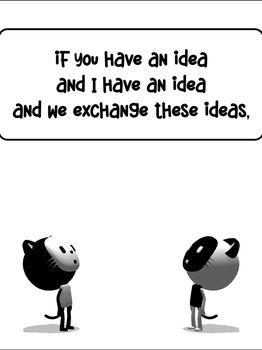
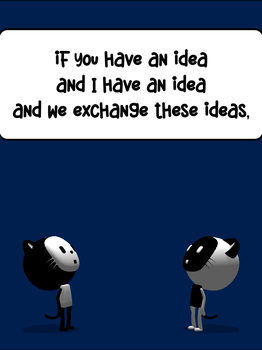
BD cases: coloured boxes, new targets
Apple_GLB2.jpg and Idea_GLB3.jpg now have a coloured background (ochre
#a77400, navy #001f4e): the box walls take that colour and the targets
are rebuilt from the new images, which tells the two cases apart.

Claude-Session: https://claude.ai/code/session_017rH57V7zFbv82sLvL6Yzpb

diff --git a/src/apple/bd-case.ts b/src/apple/bd-case.ts
@@ -10,8 +10,9 @@ declare const THREE: any
 
 const OCCLUDER_HALF = 6                // image widths; covers the page around the case
 const BORDER = 0.006                   // black line around the case, as on the print
-const BOX_COLOR = 0.4                   // lit part of the walls
-const BOX_EMISSIVE = 0.45              // walls stay near white, as in the C4D render
+// Walls in the background colour of the print: that share of it glows, the rest is lit, so the
+// walls read as the print's flat colour with a little shading and the characters' shadows.
+const BOX_GLOW = 0.6
 const SUN_INTENSITY = 0.55
 const SUN_POSITION = [0.1, 2, 0.4]     // target space, high above the box (C4D Light)
 const SUN_TARGET = [0, -0.5, -0.43]    // centre of the floor
@@ -94,7 +95,8 @@ const addFill = (world: ecs.World) => {
   world.three.notifyChanged(fill)
 }
 
-const setup = (world: ecs.World, eid: ecs.Eid, state: State, binUrl: string, label: string) => {
+const setup = (world: ecs.World, eid: ecs.Eid, state: State, binUrl: string, label: string,
+  boxColor: string) => {
   const stage = world.three.entityToObject.get(eid)
   if (!stage) {
     return
@@ -135,9 +137,10 @@ const setup = (world: ecs.World, eid: ecs.Eid, state: State, binUrl: string, lab
     const scene = createAppleScene(THREE, parseApple(buffer))
     for (const mesh of scene.meshes) {
       if (mesh.name === 'apple_box') {
+        const wall = new THREE.Color(boxColor)   // sRGB hex, as in the image
         mesh.material = new THREE.MeshLambertMaterial({
-          color: new THREE.Color().setScalar(BOX_COLOR),
-          emissive: new THREE.Color().setScalar(BOX_EMISSIVE),
+          color: wall.clone().multiplyScalar(1 - BOX_GLOW),
+          emissive: wall.clone().multiplyScalar(BOX_GLOW),
           side: THREE.DoubleSide,
         })
       } else if (mesh.name.startsWith('/Bulle1')) {
@@ -171,7 +174,7 @@ const fitShadow = (state: State) => {
 }
 
 // One component per case: `name` goes on the entity that carries the image target `target`.
-export const registerBdCase = (name: string, target: string, binUrl: string) => {
+export const registerBdCase = (name: string, target: string, binUrl: string, boxColor: string) => {
   const states = new Map<ecs.Eid, State>()
   ecs.registerComponent({
     name,
@@ -204,7 +207,7 @@ export const registerBdCase = (name: string, target: string, binUrl: string) => 
         return
       }
       if (!state.ready) {
-        setup(world, component.eid, state, binUrl, name)
+        setup(world, component.eid, state, binUrl, name, boxColor)
         if (!state.ready) {
           return
         }

diff --git a/src/apple/apple-extras.ts b/src/apple/apple-extras.ts
@@ -1,5 +1,5 @@
 import appleBinUrl from '../assets/apple/apple.bin'
 import {registerBdCase} from './bd-case'
 
-// Case 1 of the BD, baked from Apple_GLB3.c4d; target = References/Apple_GLB2.jpg.
-registerBdCase('Apple Extras', 'cible_apple', appleBinUrl)
+// Case 1 of the BD, baked from Apple_GLB3.c4d; target and wall colour = References/Apple_GLB2.jpg.
+registerBdCase('Apple Extras', 'cible_apple', appleBinUrl, '#a77400')

diff --git a/src/apple/idea-extras.ts b/src/apple/idea-extras.ts
@@ -1,5 +1,5 @@
 import ideaBinUrl from '../assets/idea/idea.bin'
 import {registerBdCase} from './bd-case'
 
-// Case 2 of the BD, baked from Idea_GLB3.c4d; target = References/Idea_GLB3.jpg.
-registerBdCase('Idea Extras', 'cible_idea', ideaBinUrl)
+// Case 2 of the BD, baked from Idea_GLB3.c4d; target and wall colour = References/Idea_GLB3.jpg.
+registerBdCase('Idea Extras', 'cible_idea', ideaBinUrl, '#001f4e')
